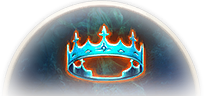
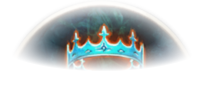
Board: smooth scrolling on high refresh monitors (no 60 fps cap), card art effects baked into images, cheaper hover and sticky shadow

diff --git a/ui/board/board.css b/ui/board/board.css
@@ -59,7 +59,7 @@ button.btn:disabled { opacity: .4; cursor: default; }
 .seg .ico { width: 20px; height: 20px; object-fit: contain; margin: -3px 6px -3px -3px; vertical-align: middle; }
 .seg .dot { display: inline-block; width: 8px; height: 8px; border-radius: 50%; margin-right: 6px; vertical-align: 1px; }
 /* The filter bar stays at the top while scrolling down to the downsides. */
-.filters.sticky { position: sticky; top: 0; z-index: 20; box-shadow: 0 6px 14px rgb(0 0 0 / .55), 0 -20px 0 var(--bg); }
+.filters.sticky { position: sticky; top: 0; z-index: 20; box-shadow: 0 4px 0 rgb(0 0 0 / .35), 0 -20px 0 var(--bg);   /* no blur: a blurred shadow over scrolling cards costs frames */ }
 .filters .grp { grid-column: 1 / -1; margin: 4px 0 -2px; font-family: var(--font-display); font-variant: small-caps; font-size: 16px; letter-spacing: .06em; color: var(--gold); }
 .filters .grp:not(:first-child) { margin-top: 10px; padding-top: 10px; border-top: 1px solid var(--line); }
 .search-row input { width: 100%; max-width: 420px; }
@@ -117,14 +117,12 @@ button.btn:disabled { opacity: .4; cursor: default; }
 .card .art {
   position: absolute; inset: 0; z-index: 0; pointer-events: none; opacity: var(--card-art);
   background-repeat: no-repeat; background-size: 130% auto; background-position: center 30%;
-  filter: blur(1px) saturate(.8);
-  -webkit-mask-image: radial-gradient(ellipse at 50% 40%, #000 35%, transparent 75%);
-  mask-image: radial-gradient(ellipse at 50% 40%, #000 35%, transparent 75%);
+  /* blur, saturation and the oval fade are baked into the images (tools/gen_board_art): as CSS they made scrolling stutter */
 }
 .card .fr { position: absolute; inset: 0; z-index: 3; border: 2px solid var(--c); border-radius: inherit; pointer-events: none; }
 .card .fr-eater { --c: var(--eater); }
 .card .fr-exarch { --c: var(--exarch); }
-.card:hover .fr { filter: brightness(1.3); }
+.card:hover .fr { border-color: color-mix(in srgb, var(--c) 70%, #fff); }
 .card[data-alt="both"] .art-eater { background-position: 10% 30%; }
 .card[data-alt="both"] .art-exarch { background-position: 90% 30%; }
 .card[data-alt="both"] :is(.art-eater, .fr-eater) { clip-path: polygon(0 0, var(--cut-a) 0, var(--cut-b) 100%, 0 100%); }

diff --git a/tools/gen_board_art.py b/tools/gen_board_art.py
@@ -5,6 +5,9 @@ Usage: python -m tools.gen_board_art
 Reads prototype/assets/target_<target>_top_<altar>.png, drops the bronze rim with a soft
 half-disc mask and writes ui/board/img/art_<target>_<altar>.png. Top and bottom halves show
 the same scene, the top one frames the player's head better.
+
+The card look (slight blur, less saturation, oval fade around the card's center) is baked into
+the files: as CSS filter and mask on 201 cards it made scrolling the board stutter.
 """
 
 from __future__ import annotations
@@ -22,6 +25,12 @@ TARGETS = ("player", "minions", "boss")
 ALTARS = ("eater", "exarch")
 INNER_RADIUS = 90            # source is 220 x 108, the rim starts around r = 100
 CROP = (8, 4, 212, 100)      # x0, y0, x1, y1
+SATURATION = 0.8
+BLUR = 0.6                   # px in the source; the card shows it about 2x larger
+# Part of the image a card shows (board.css: background-size 130% wide, position center 30%), as
+# fractions of the image; the oval fade is centered at 50% / 40% of that window like the old CSS mask.
+VIEW_W, VIEW_H, VIEW_TOP = 1 / 1.3, 0.52, 0.144
+FADE = (0.5, 1.05)           # fully visible inside, gone outside (relative oval radius)
 
 
 def cut(img: np.ndarray) -> np.ndarray:
@@ -37,13 +46,28 @@ def cut(img: np.ndarray) -> np.ndarray:
     return out[y0:y1, x0:x1]
 
 
+def card_look(img: np.ndarray) -> np.ndarray:
+    out = img.astype(np.float32)
+    rgb = out[:, :, :3]
+    gray = rgb @ np.array([0.114, 0.587, 0.299], np.float32)          # BGR luminance
+    out[:, :, :3] = gray[..., None] + SATURATION * (rgb - gray[..., None])
+    out = cv2.GaussianBlur(out, (0, 0), BLUR)
+    h, w = out.shape[:2]
+    y, x = np.mgrid[0:h, 0:w].astype(np.float32)
+    cx, cy = w / 2, h * (VIEW_TOP + 0.4 * VIEW_H)
+    d = np.hypot((x - cx) / (w * VIEW_W * 0.71), (y - cy) / (h * VIEW_H * 0.71))
+    fade = np.clip((FADE[1] - d) / (FADE[1] - FADE[0]), 0, 1)
+    out[:, :, 3] *= fade
+    return np.clip(out, 0, 255).astype(np.uint8)
+
+
 def main() -> int:
     OUT.mkdir(parents=True, exist_ok=True)
     for target in TARGETS:
         for altar in ALTARS:
             img = cv2.imread(str(ASSETS / f"target_{target}_top_{altar}.png"), cv2.IMREAD_UNCHANGED)
             path = OUT / f"art_{target}_{altar}.png"
-            cv2.imwrite(str(path), cut(img))
+            cv2.imwrite(str(path), card_look(cut(img)))
             print(path.relative_to(ROOT))
     return 0
 

diff --git a/prototype/board.py b/prototype/board.py
@@ -10,7 +10,14 @@ on its next scan.
 from __future__ import annotations
 
 import json
+import os
 import sys
+
+# Qt WebEngine paces Chromium at a fixed 60 fps, which feels choppy next to a 144 Hz monitor. Without
+# the limit it draws at the screen's pace while scrolling and nothing while idle. Read when WebEngine
+# starts (the first board window), so setting it at import is early enough, also from the tray app.
+if "--disable-frame-rate-limit" not in os.environ.get("QTWEBENGINE_CHROMIUM_FLAGS", ""):
+    os.environ["QTWEBENGINE_CHROMIUM_FLAGS"] = (os.environ.get("QTWEBENGINE_CHROMIUM_FLAGS", "") + " --disable-frame-rate-limit").strip()
 
 from PySide6.QtCore import QObject, QUrl, Slot
 from PySide6.QtWebChannel import QWebChannel

diff --git a/plans/Plan.md b/plans/Plan.md
@@ -226,7 +226,7 @@ tests/                   # unit + recognition accuracy tests
 - `live.py`: capture with `mss` (primary monitor by default), icon search at 4 Hz, OCR only for new altars. Altars are tracked by icon position across scans and, because running moves the icon too far between scans, also by content (≥ 60 % of the same mods on the same positions; values ignored). The better read wins (complete, more mods). Once both boxes are read completely, an altar is not read again; incomplete altars (cut off, covered by HUD) are re-read every 0.5 s.
 - `verdict.py`: verdict engine with unit tests for every row of the verdict table and the recommendation rules. New verdict `UNREADABLE` when no mod of an option could be read; the recommendation then waits ("Can't read both options yet.").
 - `overlay.py`: frameless, always-on-top, click-through, never takes focus; anchored at the bottom center on every size change (`hud_bottom`, `hud_offset_x` in `settings.json`). Per altar it mirrors the game: top option box, recommendation box in the middle (where the altar icon sits), bottom option box. Box borders carry the verdict color; each option shows its target as the matching half of the altar icon (original game art, top half for the top option and bottom half for the bottom one; blue = Eater, red = Exarch). Up to two altars side by side. Mod text comes from `mods.json` with the read values filled in, so stray OCR text (gold labels, NPC lines) never shows up.
-- `board.py` + `ui/board/`: the tier board grown from the mockup, on the real 201 cards. **Change of plan:** hosted in Qt WebEngine (already part of PySide6) instead of pywebview, so the board opens from the same process. The page talks to Python through a small adapter (`connectBackend()` in `board.js`, seven calls); the WebView2 port only replaces that adapter. A "Settings" panel in the board (renamed from "Overlay settings"; it also holds the board card style and target tag) sets text size, tier style, values column, dimming of the other option and the HUD position; values are validated in `settings.clean()` (shared with the overlay) and written to `settings.json` right away, so the HUD changes live. Upsides use custom columns (`Unrated | own named columns | top column`, see section 5): add with "+ Column" on the top column, rename / move / delete from the column header. Drag and drop shows a drop marker, auto-scrolls near column and window edges, drops on a column header go to the top, and each column keeps its scroll position after a move. The board uses the full window width (columns 240–340 px, left aligned) and opens at 90 % of the screen. Cards got the look from section 5 (2026-11-03): the scenes come from `python -m tools.gen_board_art`, which cuts the top altar halves (no bronze rim, wide soft fade) into `ui/board/img/`; `getState` passes each card's reward icon from `labels.json`. Multi-select (Ctrl/Shift) replaced the per-card arrow buttons.
+- `board.py` + `ui/board/`: the tier board grown from the mockup, on the real 201 cards. **Change of plan:** hosted in Qt WebEngine (already part of PySide6) instead of pywebview, so the board opens from the same process. The page talks to Python through a small adapter (`connectBackend()` in `board.js`, seven calls); the WebView2 port only replaces that adapter. A "Settings" panel in the board (renamed from "Overlay settings"; it also holds the board card style and target tag) sets text size, tier style, values column, dimming of the other option and the HUD position; values are validated in `settings.clean()` (shared with the overlay) and written to `settings.json` right away, so the HUD changes live. Upsides use custom columns (`Unrated | own named columns | top column`, see section 5): add with "+ Column" on the top column, rename / move / delete from the column header. Drag and drop shows a drop marker, auto-scrolls near column and window edges, drops on a column header go to the top, and each column keeps its scroll position after a move. The board uses the full window width (columns 240–340 px, left aligned) and opens at 90 % of the screen. Cards got the look from section 5 (2026-11-03): the scenes come from `python -m tools.gen_board_art`, which cuts the top altar halves (no bronze rim, wide soft fade) into `ui/board/img/`; `getState` passes each card's reward icon from `labels.json`. Multi-select (Ctrl/Shift) replaced the per-card arrow buttons. Smooth scrolling (2026-11-03): Qt WebEngine paces Chromium at a fixed 60 fps, which felt choppy on the 144 Hz monitor; `board.py` sets `--disable-frame-rate-limit` in `QTWEBENGINE_CHROMIUM_FLAGS` (frames during scrolling ~6 ms, nothing drawn while idle). The card art blur, saturation and oval fade are baked into the images by `gen_board_art` instead of CSS filter/mask on 201 cards, and the sticky bar shadow has no blur.
 - Files: the board writes `data/profiles/*.json` and `settings.json` (active profile, HUD position); the scanner checks both on every scan, so changes apply instantly. User profiles and `settings.json` are not in git.
 - Measured on the desktop without altars: **1.96 % total CPU** (47 % of one of 24 threads) at 4 Hz. Most of it is the `mss` screen grab (~35 ms); `dxcam` (DXGI) is the next lever if needed.
 - **Done when:** a real mapping session shows correct verdicts with no noticeable FPS impact (CPU idle load from stage 1 ≤ 3 %). ✅
